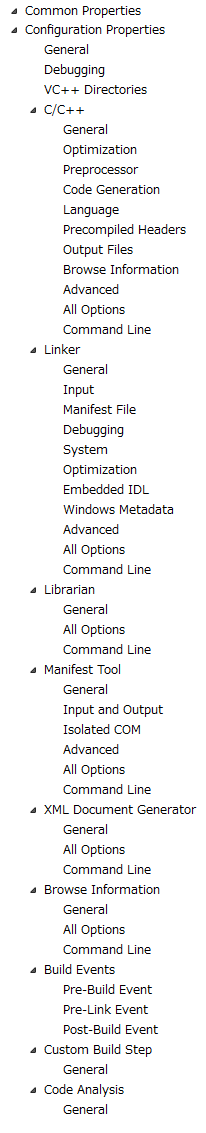
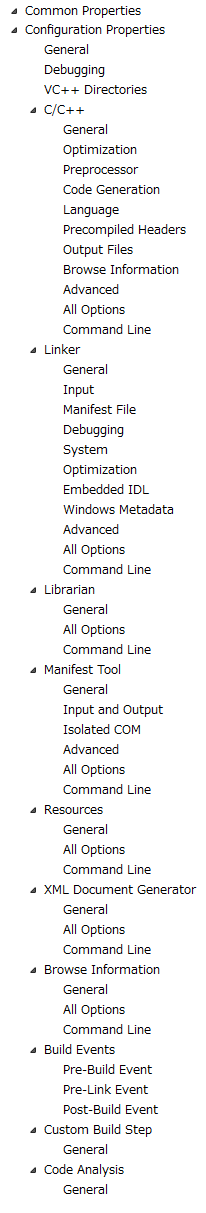
Add 'Resource' section

diff --git a/doc.less b/doc.less
@@ -85,7 +85,7 @@
 
 .config_panel_contents_background_container {
   width: 240px * @config_panel_scale;
-  height: 817px * @config_panel_scale;
+  height: 1213px * @config_panel_scale;
   overflow: hidden;
 }
 
